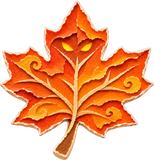
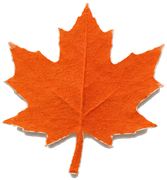
Paper leaves and snow: five cut-paper leaves and six paper snow pieces that sway as they fall
Claude-Session: https://claude.ai/code/session_014vwR7NM2aDFqWmg6Pa4hGJ

diff --git a/StormStitch/Gameplay.swift b/StormStitch/Gameplay.swift
@@ -770,19 +770,35 @@ extension RunScene {
         for emitter in holidayEmitters { emitter.removeFromParent() }
         holidayEmitters.removeAll()
         guard let holiday = newTheme?.holiday, let particles = newTheme?.particles else { return }
+        let harvest = holiday == .harvest
+        // The total amount stays the same however many kinds of piece there are.
+        let totalRate: CGFloat = harvest ? 4.5 : 11
         for (i, name) in particles.enumerated() {
             let texture: SKTexture
-            if let image = artImage(name) {
+            // Size each piece by its picture's shape so nothing is squashed.
+            let base: CGFloat = harvest ? 34 : 22
+            var pieceSize = CGSize(width: base, height: base)
+            if let image = artImage(name), image.size.height > 0 {
                 texture = SKTexture(image: image)
+                let aspect = image.size.width / image.size.height
+                pieceSize = aspect >= 1 ? CGSize(width: base, height: base / aspect) : CGSize(width: base * aspect, height: base)
             } else {
-                texture = holiday == .harvest ? art.leaf(variant: i).texture : art.puff.texture
+                texture = harvest ? art.leaf(variant: i).texture : art.puff.texture
             }
             let emitter = SKEmitterNode()
             emitter.particleTexture = texture
-            emitter.particleBirthRate = holiday == .harvest ? 1.6 : 6
+            emitter.particleBirthRate = totalRate / CGFloat(max(1, particles.count))
             emitter.particleLifetime = 9
-            emitter.particleSize = holiday == .harvest ? CGSize(width: 26, height: 26) : CGSize(width: 18, height: 18)
+            emitter.particleSize = pieceSize
             emitter.particleScaleRange = 0.5
+            // Paper flutters: each piece sways side to side as it falls.
+            let sway: CGFloat = harvest ? 26 : 14
+            let swayTime = harvest ? 1.1 : 1.5
+            let half = SKAction.moveBy(x: sway, y: 0, duration: swayTime)
+            half.timingMode = .easeInEaseOut
+            let back = SKAction.moveBy(x: -sway, y: 0, duration: swayTime)
+            back.timingMode = .easeInEaseOut
+            emitter.particleAction = .repeatForever(.sequence([half, back]))
             emitter.particlePositionRange = CGVector(dx: size.width * 1.3, dy: 0)
             emitter.position = CGPoint(x: size.width / 2, y: size.height + 30)
             emitter.emissionAngle = -.pi / 2

diff --git a/StormStitch/Holiday.swift b/StormStitch/Holiday.swift
@@ -59,7 +59,11 @@ enum Holiday: String, CaseIterable, Codable {
     var treeGray: String { self == .harvest ? "tree-gray" : "pine-gray" }
     var groundColor: String { self == .harvest ? "ground-autumn" : "ground-snow" }
     var roadColor: String? { self == .harvest ? nil : "road-snow" }
-    var particles: [String] { self == .harvest ? ["leaf-1", "leaf-2", "leaf-3"] : ["snowflake-1", "snowflake-2"] }
+    /// Cut-paper pieces that drift down the screen: five leaves, or paper snowflakes, punched dots, a scrap and a star.
+    var particles: [String] {
+        self == .harvest ? ["leaf-1", "leaf-2", "leaf-3", "leaf-4", "leaf-5"]
+                         : ["snow-1", "snow-2", "snow-3", "snow-4", "snow-5", "snow-6"]
+    }
 
     /// The event running on a given day, if any.
     static func active(on date: Date = Date()) -> Holiday? {
